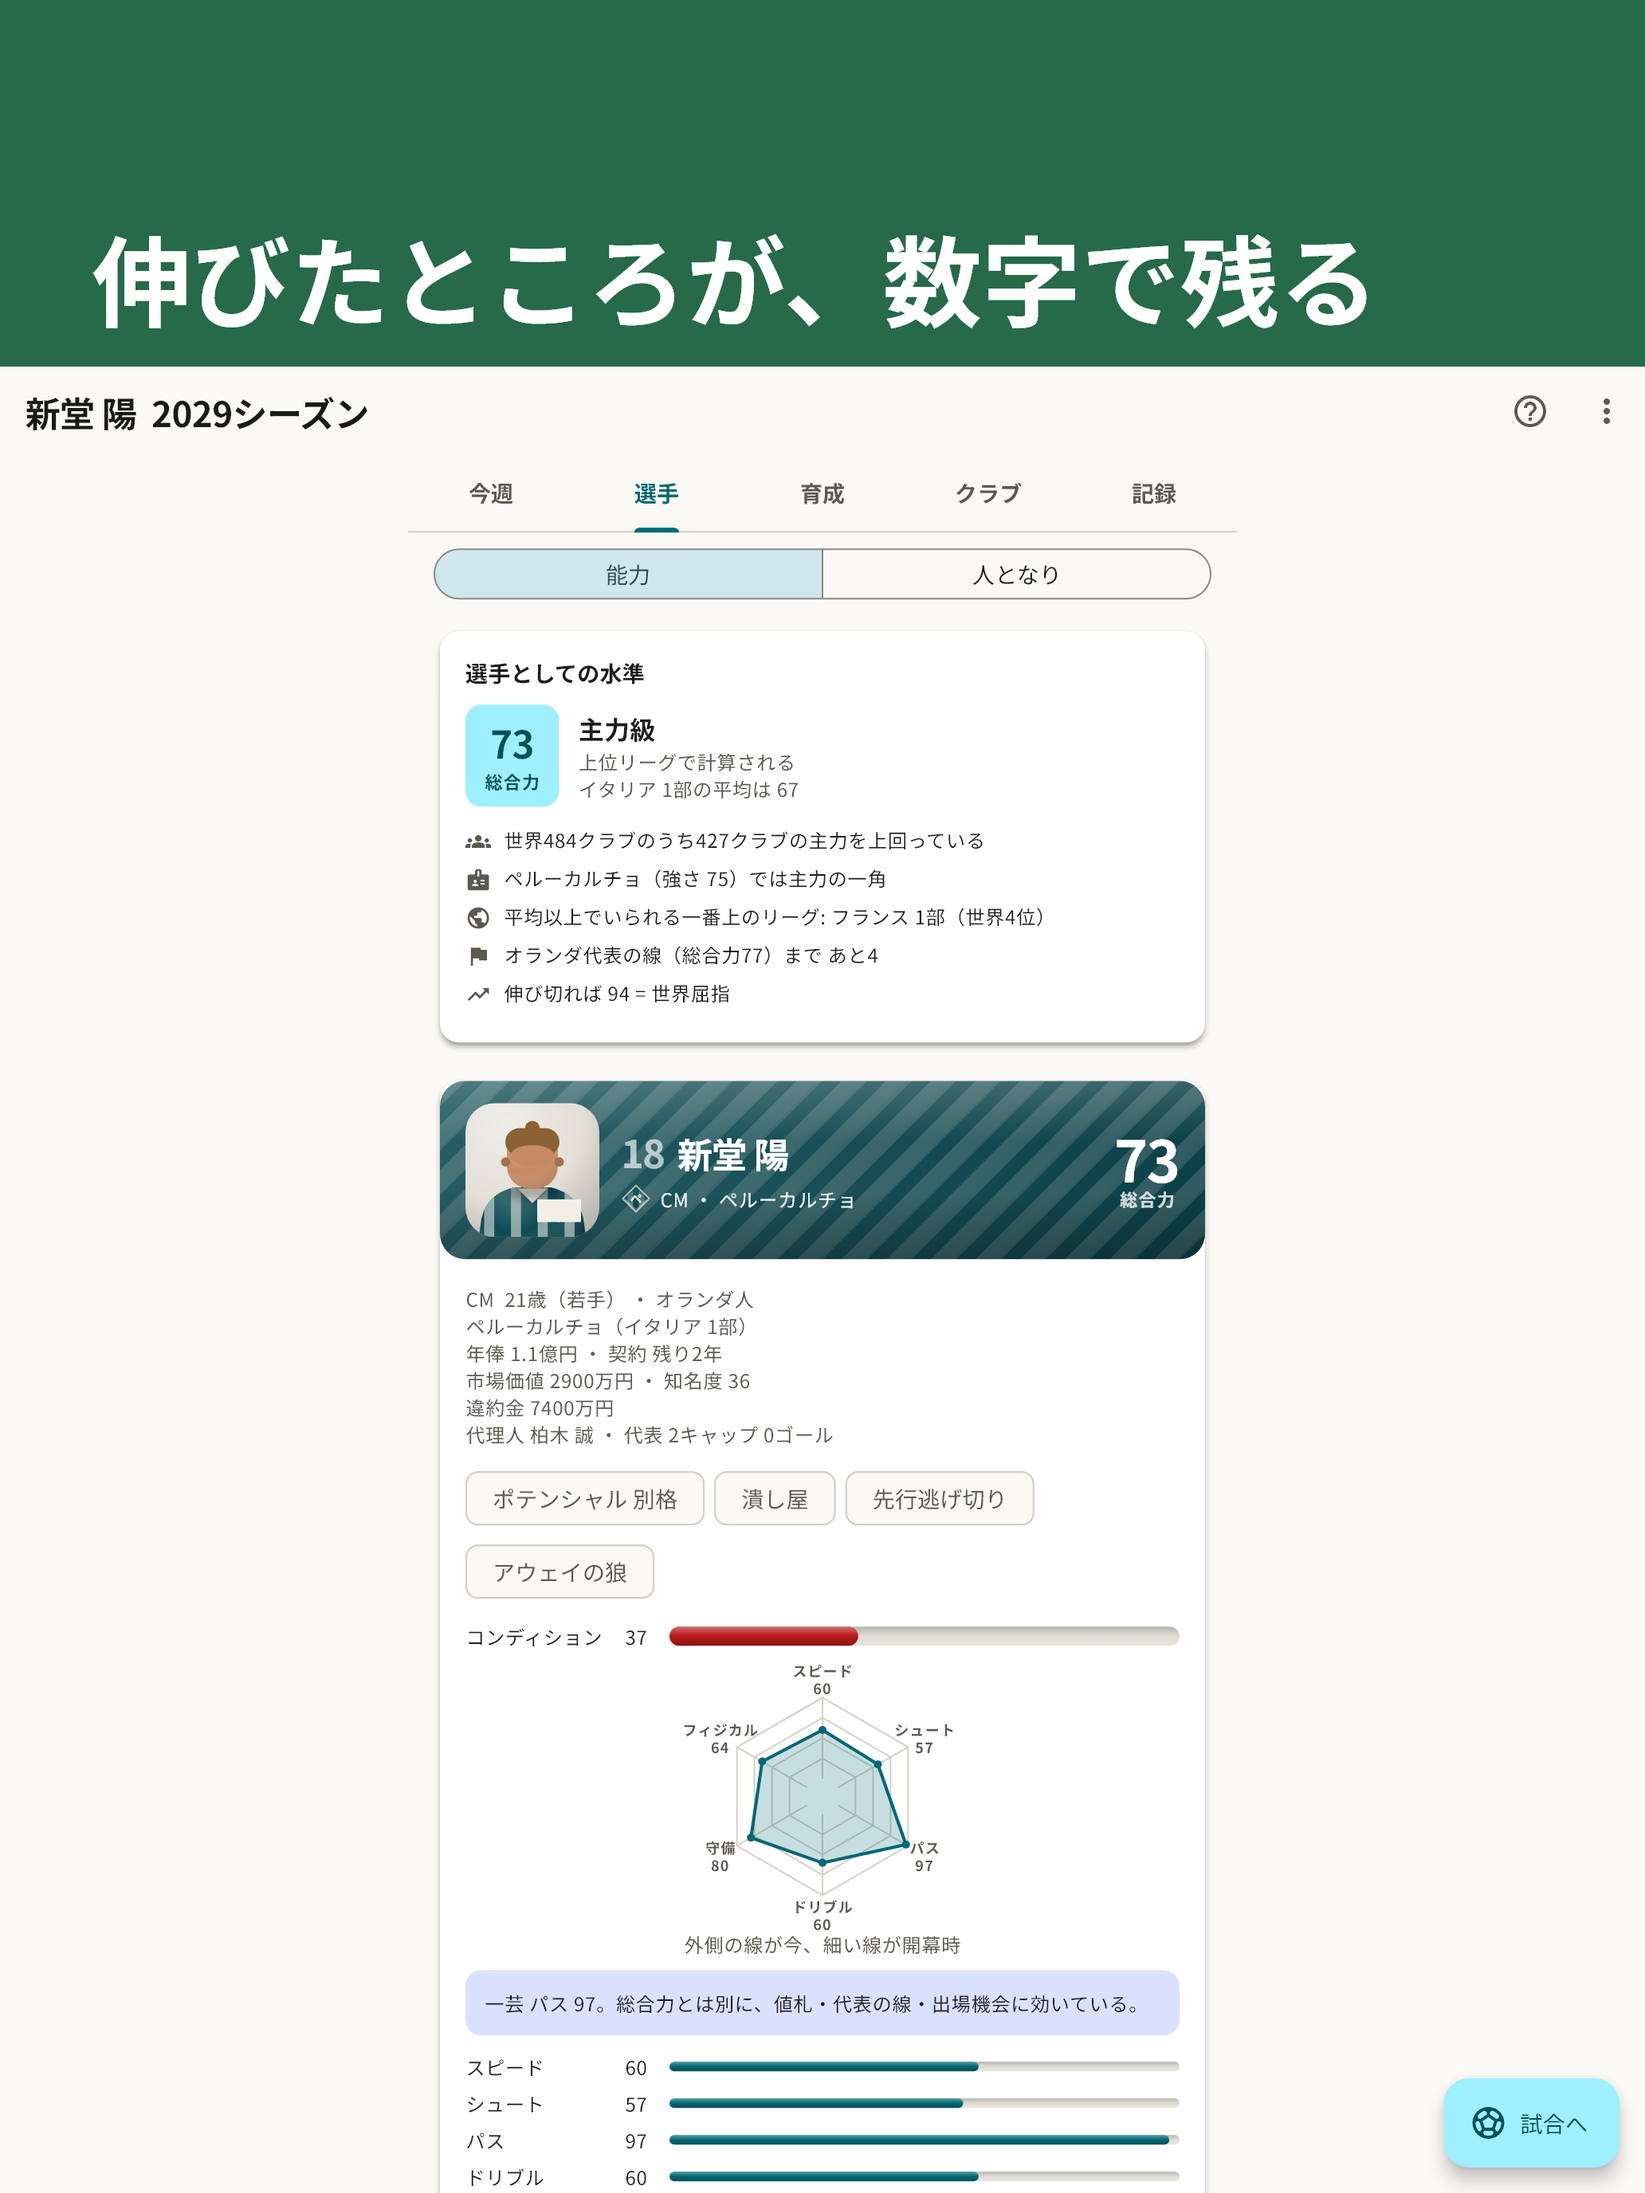
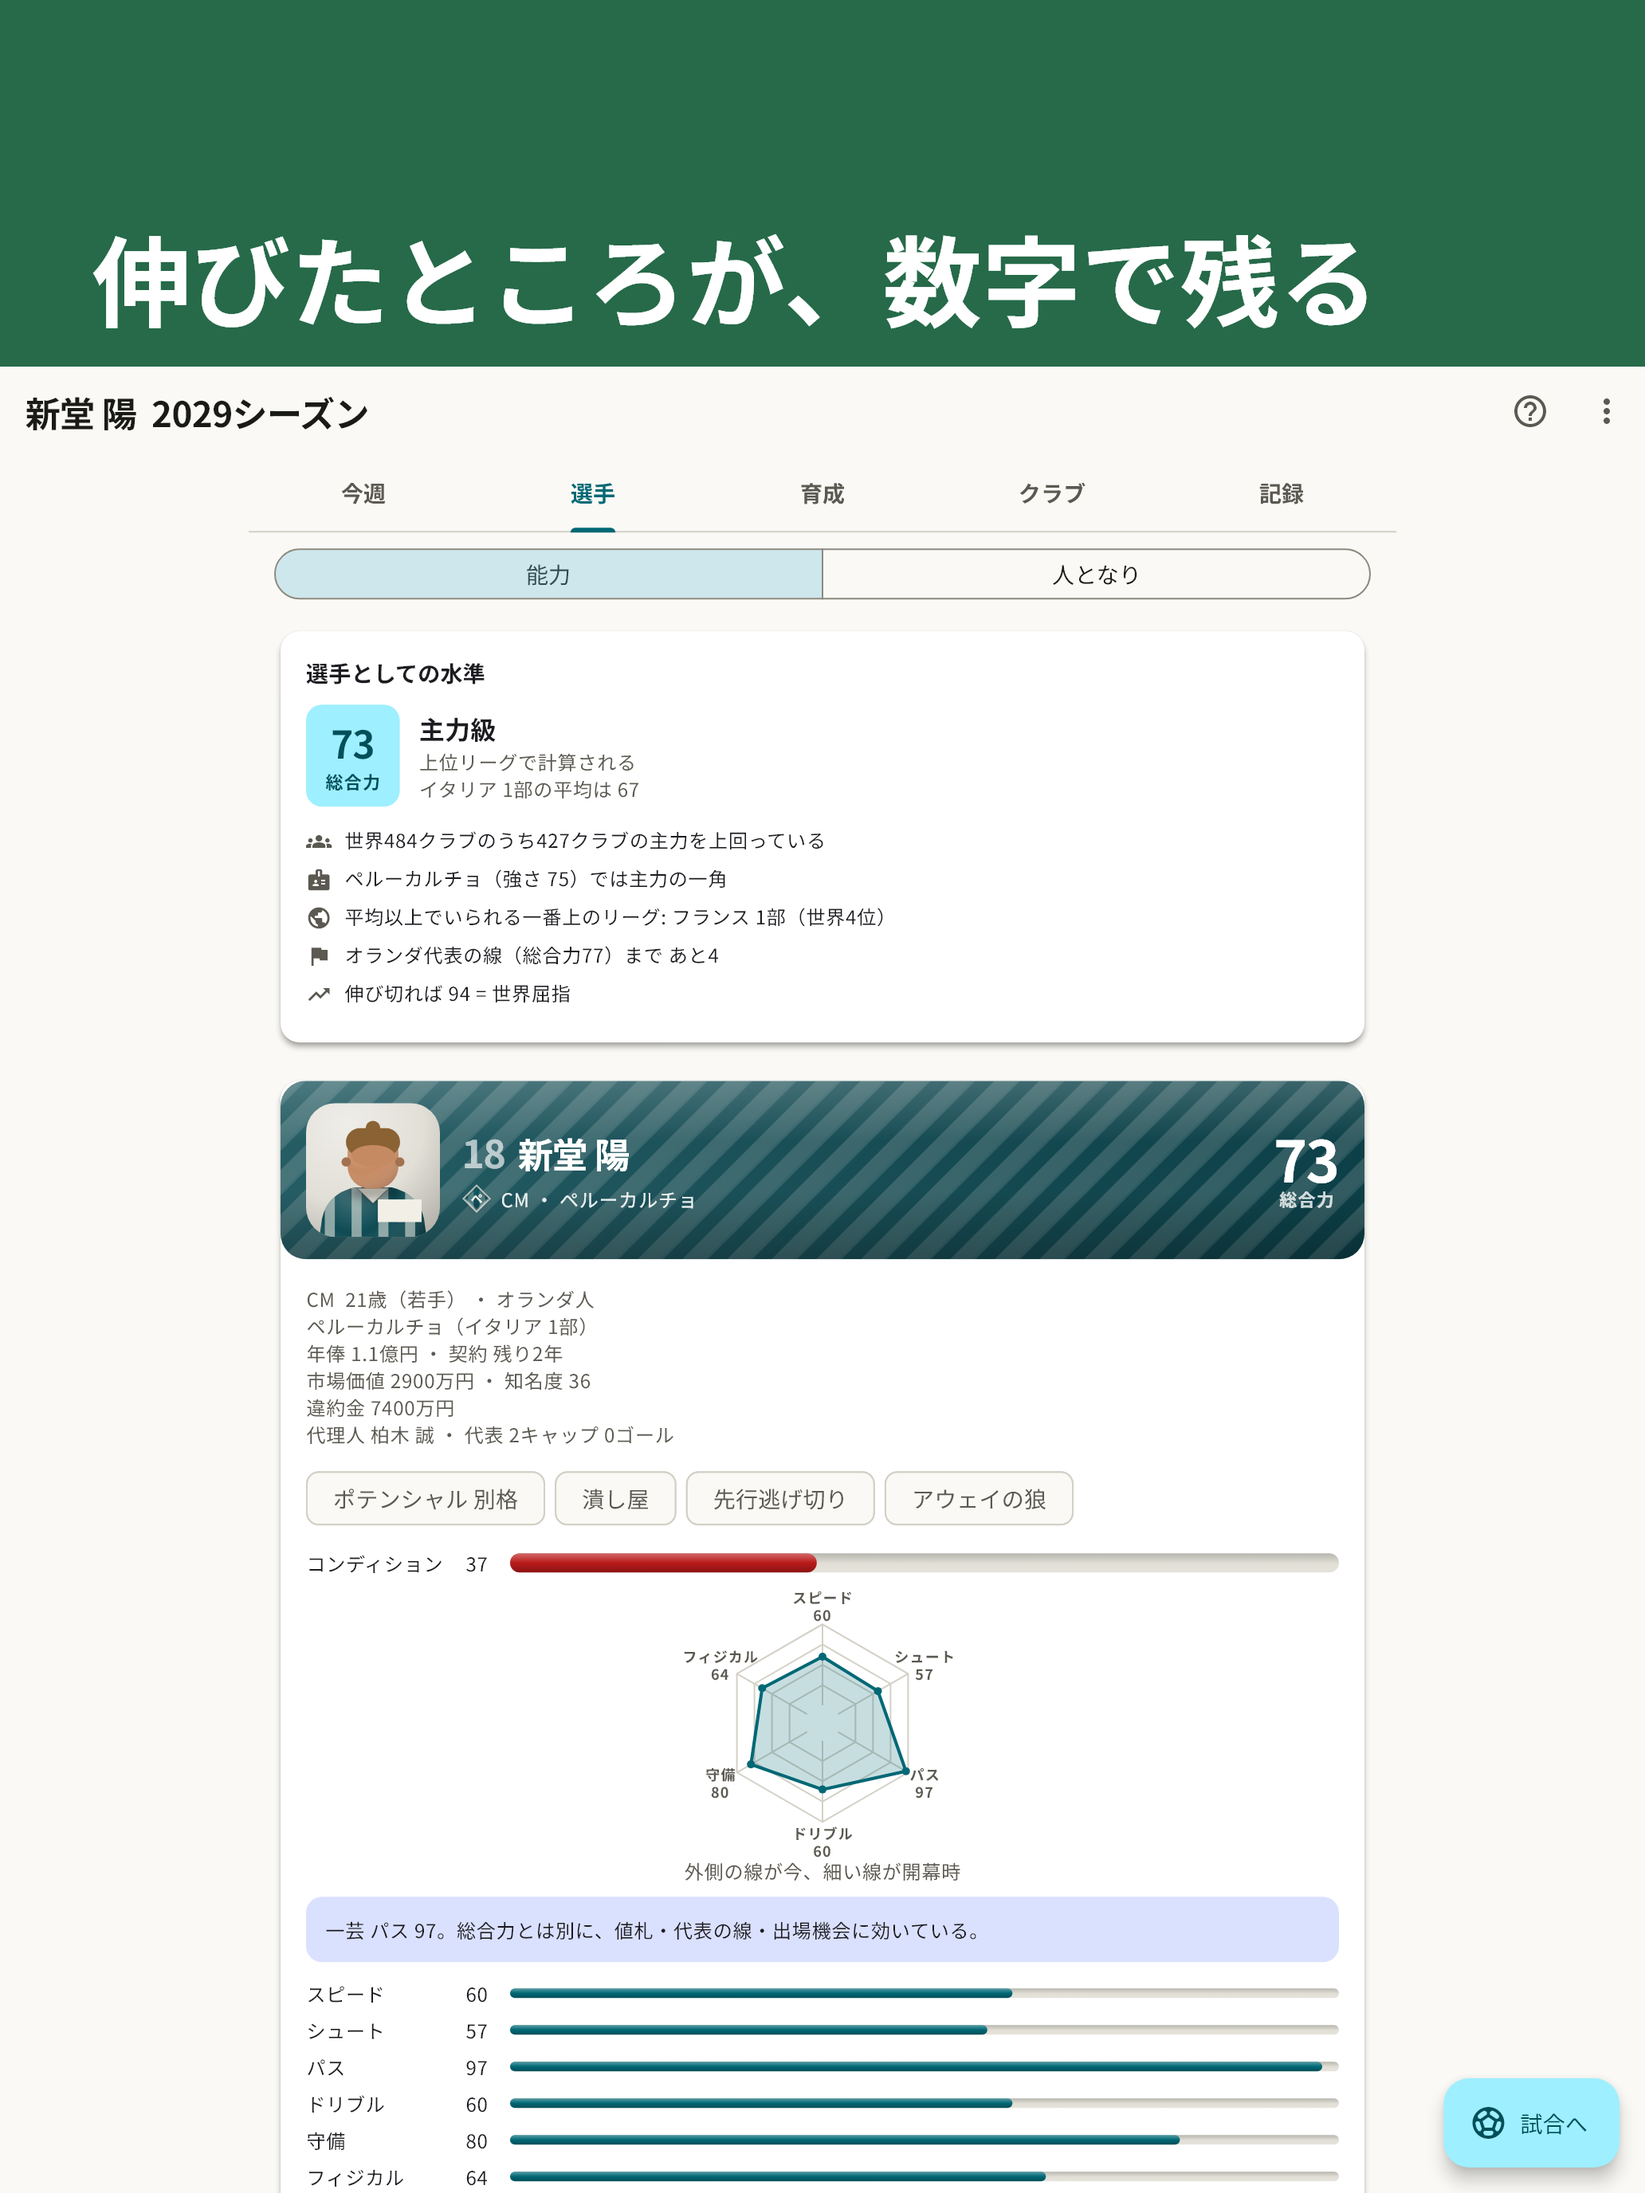
soccer-career: iPad を対象に残し、広い画面の中身の広げ方を soccer-manager に揃える
ストア掲載の絵を撮ったとき、iPad 13インチ（論理1032幅）で中身が真ん中の
520px に収まり、左右が大きく空いていた。崩れてはいないが 13インチの絵として
間が持たず、iPhone 専用に落とすかどうかを決める必要があった。

soccer-manager に合わせる。あちらも TARGETED_DEVICE_FAMILY = "1,2" で
iPad の絵を9枚用意している。合わせたのは対象端末だけではない——同じ役の
ResponsiveBody が 720 になっていて、あちらの iPad の絵は幅が埋まっている。

- ReadableWidth.maxContentWidth を 520 → 720（soccer-manager と同じ値）
- 出身国の札・練習の札・能力の棒が横に並び、iPad の絵の幅が埋まった
- iPad の8枚を撮り直した

**スマホでは1ピクセルも変わらない。** 画面幅 390〜430 はどちらの値より
狭いので、常に画面いっぱいになる。iPhone の8枚は前と同じバイト列のままで、
git の差分にも出ていない。

裏を返すと、**520 に戻してもスマホを見ている限り誰も気付かない**。
test/ui_test.dart に「iPad の幅では、中身が細い1列に縮こまらない」を足した。
1032幅で中身の描画幅を測る。520 に戻すと落ちることを確かめてある。

diff --git a/projects/soccer-career/test/ui_test.dart b/projects/soccer-career/test/ui_test.dart
@@ -1479,6 +1479,45 @@ void main() {
     await open(controller, await money(store: false));
     expect(find.widgetWithText(OutlinedButton, '広告を消す'), findsNothing);
   });
+
+  /// **iPad の幅で、中身が細い1列に縮こまらない。**
+  ///
+  /// 掲載用の絵を iPad 13インチ（論理1032幅）で撮ったら、中身が真ん中の
+  /// 520px に収まって左右が大きく空いていた。崩れてはいないが、13インチの
+  /// 絵として間が持たない。`soccer-manager` は同じ役の `ResponsiveBody` を
+  /// 720 にしていて、あちらの iPad の絵は幅が埋まっている（2026-09-26 に
+  /// 揃えた）。
+  ///
+  /// スマホでは何も変わらない（390〜430 はどちらの値より狭い）。だから
+  /// **スマホだけ見ていると、520 に戻しても誰も気付かない。**
+  testWidgets('iPad の幅では、中身が細い1列に縮こまらない', (tester) async {
+    final controller = await newCareer();
+    tester.view.physicalSize = const Size(1032, 1376);
+    tester.view.devicePixelRatio = 1.0;
+    addTearDown(tester.view.reset);
+
+    await tester.pumpWidget(
+      MaterialApp(home: HubScreen(controller: controller)),
+    );
+    await tester.pumpAndSettle();
+
+    final body = tester.getSize(
+      find
+          .descendant(
+            of: find.byType(ReadableWidth).first,
+            matching: find.byType(ConstrainedBox),
+          )
+          .first,
+    );
+    expect(
+      body.width,
+      greaterThanOrEqualTo(700),
+      reason: 'iPad で中身が ${body.width} 幅しかない。'
+          'ReadableWidth.maxContentWidth を狭めていないか',
+    );
+    // 逆に、広げすぎて1行が伸び切っていないこと（読めなくなる）。
+    expect(body.width, lessThan(1032));
+  });
 }
 
 /// 価格まで返す偽のストア。`monetize_test` の偽物は本文側に置いてあるので、

diff --git a/projects/soccer-career/lib/ui/readable_width.dart b/projects/soccer-career/lib/ui/readable_width.dart
@@ -8,9 +8,18 @@ import 'package:flutter/material.dart';
 class ReadableWidth extends StatelessWidget {
   const ReadableWidth({super.key, required this.child, this.maxWidth = maxContentWidth});
 
-  /// 本文の最大幅。スマホの縦画面（390〜430px）より少しだけ広くしてある。
-  /// 広げすぎると、そもそも縦に積む前提の配置が間延びする。
-  static const double maxContentWidth = 520;
+  /// 本文の最大幅。
+  ///
+  /// 以前は 520 だった（スマホの縦画面より少しだけ広い値）。iPad 13インチの
+  /// 掲載用の絵を撮ったら、**中身が真ん中の細い1列に収まって左右が大きく
+  /// 空いた**。崩れてはいないが、13インチの絵として間が持たない。
+  ///
+  /// `soccer-manager` は同じ役の `ResponsiveBody` を **720** にしていて、
+  /// iPad の絵は幅が埋まっている。2026-09-26 にそちらへ揃えた。
+  ///
+  /// **スマホでは何も変わらない**（画面幅 390〜430 はどちらの値より狭いので、
+  /// 常に画面いっぱいになる）。変わるのは iPad と PC のブラウザだけ。
+  static const double maxContentWidth = 720;
 
   final Widget child;
   final double maxWidth;

diff --git a/projects/soccer-career/STORE_LISTING.md b/projects/soccer-career/STORE_LISTING.md
@@ -145,13 +145,24 @@ iPad ぶんが要るのは、アプリが iPad でも動く設定（`TARGETED_DE
 - 帯の高さと文字は端末の幅に比例させる。固定値だと iPhone で2行に折り返して
   帯からはみ出し、iPad では豆粒になった。
 
-### 分かっている弱み
+### iPad は対象に残す（2026-09-26 決定）
 
-iPad の絵は、**中身が真ん中の細い1列に収まり、左右が大きく空く**。画面は
-スマホの縦長を前提に組んであり、`ReadableWidth`（最大520px）で1行が伸び
-きらないようにしているため。崩れてはいないが、13インチの絵としては間が
-持たない。iPhone 専用（`TARGETED_DEVICE_FAMILY` = "1"）にすれば iPad の絵は
-そもそも要らなくなる——**初回提出前に決めること**。
+`soccer-manager` に合わせた。あちらも `TARGETED_DEVICE_FAMILY` = "1,2" で、
+iPad の絵を9枚用意している。
+
+合わせたのは対象端末だけではない。**広い画面での中身の広げ方も揃えた**。
+`soccer-manager` は同じ役の `ResponsiveBody` を **720** にしていて iPad の絵の
+幅が埋まっているが、こちらは `ReadableWidth` が **520** で、中身が真ん中の
+細い1列に収まり左右が大きく空いていた。720 に揃えたところ、出身国の札・
+練習の札・能力の棒が横に並んで幅が埋まった。
+
+**スマホでは1ピクセルも変わらない**（画面幅 390〜430 はどちらの値より狭いので
+常に画面いっぱいになる）。iPhone の8枚は前と同じバイト列のままで、
+変わったのは iPad の8枚だけ。
+
+だから**スマホだけ見ていると、520 に戻しても誰も気付かない**。
+`test/ui_test.dart` の「iPad の幅では、中身が細い1列に縮こまらない」が
+1032幅で中身の幅を測って見張っている。
 
 ## レビュー用メモ（App Store Connect の「レビュー用メモ」欄）
 
